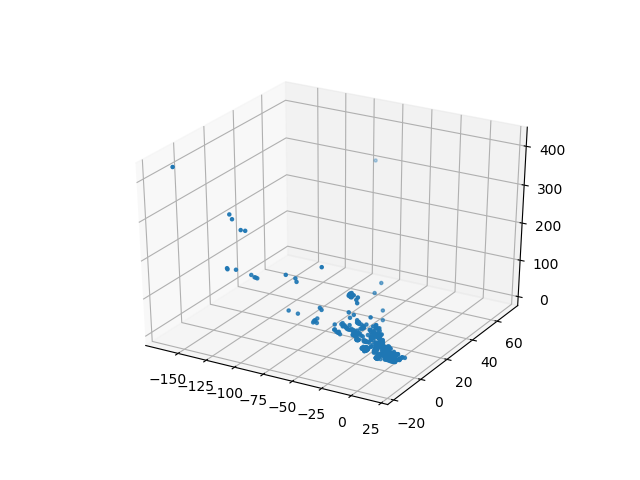
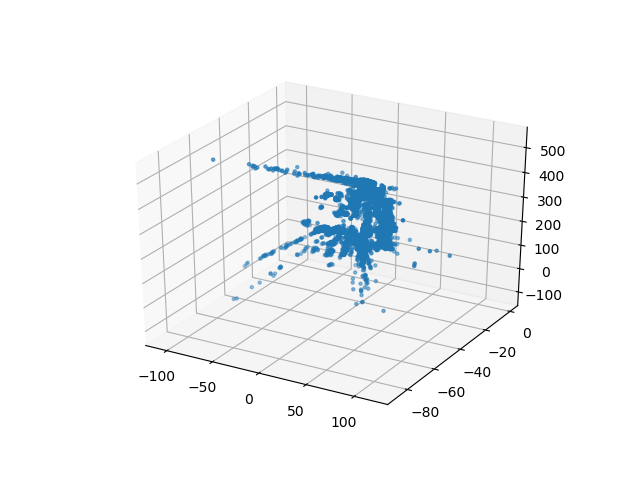
on-line point clouds

Changed region(s): [[0.2188, 0.1875, 0.875, 0.9062], [0.6875, 0.6875, 0.8438, 0.8438], [0.625, 0.8438, 0.6875, 0.9062]]

diff --git a/kpT0.py b/kpT0.py
@@ -35,7 +35,7 @@ def T2traj(poses):
     pts = np.array(pts)
     return pts
 
-def pt_cloud(p,p_,T,foe,scale,c,outfn):
+def pt_cloud(p,p_,T,foe,scale,c):
     ''' p is 2,N
         p_ is 2,N
         T is 4,4
@@ -50,7 +50,6 @@ def pt_cloud(p,p_,T,foe,scale,c,outfn):
     p = torch.cat([p,z],dim=0)
     p_ = torch.cat([p_,z],dim=0)
     foe = torch.cat([foe,z_],dim=0)
-    #print(p.size(),p_.size(),T.size(),foe.size(),scale,c.size())
     
     c_ = torch.inverse(c)
     p = c_ @ p
@@ -62,11 +61,27 @@ def pt_cloud(p,p_,T,foe,scale,c,outfn):
     
     x = p * d
     x = T[:3,:3] @ x + T[:3,3:]
-    x = x.detach().numpy()
+    #thresh_d = 5*torch.min(d)
+    #close = (d < thresh_d).nonzero()
+    #close = close.reshape(-1)
+    _,close = torch.topk(-d,k=10)
     
+    x = x[:,close]
+    x = x.detach().numpy()
+    return x
+
+def plot_pt_cloud(x,outfn):
     fig = plt.figure()
+    plt.axis('equal')
     ax = fig.add_subplot(111, projection='3d')
-    ax.scatter(x[0,:], x[1,:], x[2,:], marker='.')
+    ax.scatter(x[2,:], -x[0,:], x[1,:], marker='.')
+    
+    ax.set_xlabel('Z Label')
+    ax.set_ylabel('X Label')
+    ax.set_zlabel('Y Label')
+    
+    plt.show()
+    
     plt.savefig(outfn)
     plt.close(fig)
 
@@ -203,7 +218,7 @@ if __name__ == '__main__':
     #seq_id = '2011_09_26_drive_0046_sync'
     #fn_re = f'/home/ronnypetson/Downloads/2011_09_26/{seq_id}/image_00/data/*.png'
     #fn_re = f'/home/ronnypetson/Downloads/kitti/image_0/*.png'
-    seq_id = '06' #'01'
+    seq_id = '01' #'01'
     bdir = '/home/ronnypetson/Downloads/kitti_seq/dataset/'
     kp = KpT0(376,1241,bdir,seq_id)
     c = kp.camera_matrix
@@ -211,6 +226,8 @@ if __name__ == '__main__':
     poses_gt = []
     poses_ = []
     i = 0
+    pose0 = np.eye(4)
+    cloud_all = np.zeros((3,1))
     for p,f,T,Tgt in kp:
         normT = np.linalg.norm(Tgt[:3,3])
         T = norm_t(T,normT)
@@ -238,18 +255,23 @@ if __name__ == '__main__':
         T_ = SE3.exp(T_).inv().as_matrix()
         T_ = norm_t(T_,normT)
         poses_.append(T_)
+        pose0 = pose0 @ T_
         
         if i%30 == 0:
             P = [poses_gt,poses,poses_]
             plot_trajs(P,f'{seq_id}.png',glb=False)
-            
+        
+        scale = normT / (np.linalg.norm(T_[:3,3])+1e-8)
+        p = torch.from_numpy(p[kp.vids,0]).double()
+        p_ = p + torch.from_numpy(f[kp.vids,0]).double()
+        T_acc = torch.from_numpy(pose0).double()
+        foe = torch.from_numpy(foe).double().unsqueeze(-1)
+        c_tc = torch.from_numpy(c).double()
+        cloud = pt_cloud(p,p_,T_acc,foe,scale,c_tc)
+        cloud_all = np.concatenate([cloud_all,cloud],axis=1) # [:,:20]
+        
         if i%20 == 1:
-            scale = normT / (np.linalg.norm(T_[:3,3])+1e-8)
-            p = torch.from_numpy(p[kp.vids,0]).double()
-            p_ = p + torch.from_numpy(f[kp.vids,0]).double()
-            T_ = torch.from_numpy(T_).double()
-            foe = torch.from_numpy(foe).double().unsqueeze(-1)
-            c_tc = torch.from_numpy(c).double()
-            pt_cloud(p,p_,T_,foe,scale,c_tc,f'{seq_id}_pt_cloud.png')
+            plot_pt_cloud(np.array(cloud_all),f'{seq_id}_pt_cloud.svg')
+        
         i += 1
 
